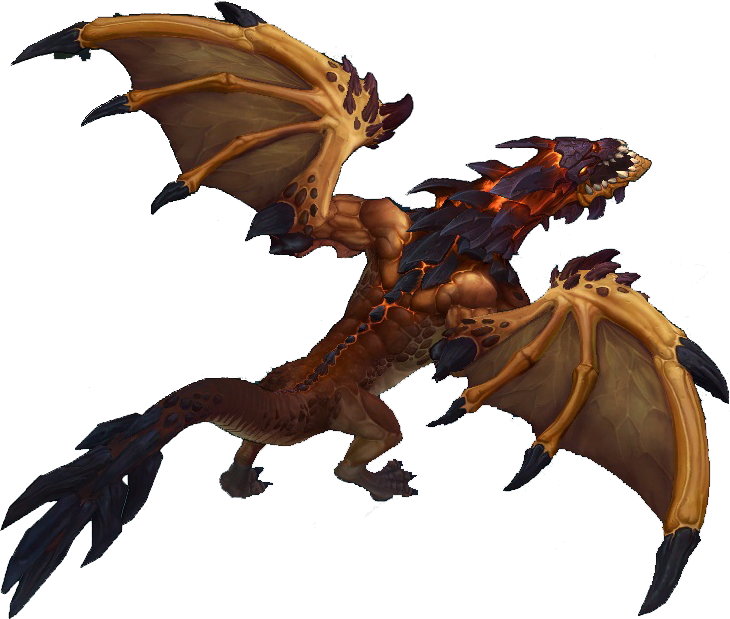
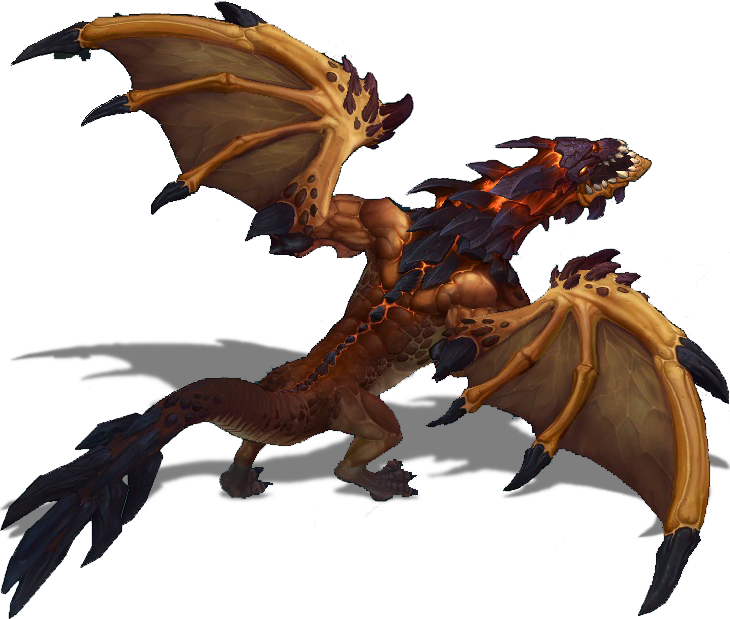
Added shades to some images.

diff --git a/Projeto Guiado/src/maze/gui/GameGraphic.java b/Projeto Guiado/src/maze/gui/GameGraphic.java
@@ -27,6 +27,7 @@ public class GameGraphic extends JPanel implements MouseListener, MouseMotionLis
 	private static BufferedImage dragon_sleeping;
 	private static BufferedImage sword;
 	private static BufferedImage wall;
+	private static BufferedImage pavement_wall;
 	private static BufferedImage pavement;
 	private static BufferedImage shield;
 	private static BufferedImage dart;
@@ -48,6 +49,7 @@ public class GameGraphic extends JPanel implements MouseListener, MouseMotionLis
 		try
 		{
 			wall = ImageIO.read(new File("./res/wall.jpg"));
+			pavement_wall = ImageIO.read(new File("./res/pavement_wall.jpg"));
 			dragon = ImageIO.read(new File("./res/dragon.png"));
 			dragon_sleeping = ImageIO.read(new File("./res/dragon_sleeping.png"));
 			hero = ImageIO.read(new File("./res/hero.png"));
@@ -314,7 +316,10 @@ public class GameGraphic extends JPanel implements MouseListener, MouseMotionLis
 			{
 				if(map.isExit(x, y) && exit.isVisible())
 				{
-					showImageCell(g, pavement, x, y);
+					if (y > 0 && map.isWall(x,  y - 1))
+						showImageCell(g, pavement_wall, x, y);
+					else
+						showImageCell(g, pavement, x, y);
 				}
 				else if(map.isWall(x,  y))
 				{
@@ -322,7 +327,10 @@ public class GameGraphic extends JPanel implements MouseListener, MouseMotionLis
 				}
 				else
 				{
-					showImageCell(g, pavement, x, y);
+					if (y > 0 && map.isWall(x, y - 1) && !(map.isExit(x, y - 1) && exit.isVisible()))
+						showImageCell(g, pavement_wall, x, y);
+					else
+						showImageCell(g, pavement, x, y);
 				}
 
 				if(x == hero.getX() && y == hero.getY())
